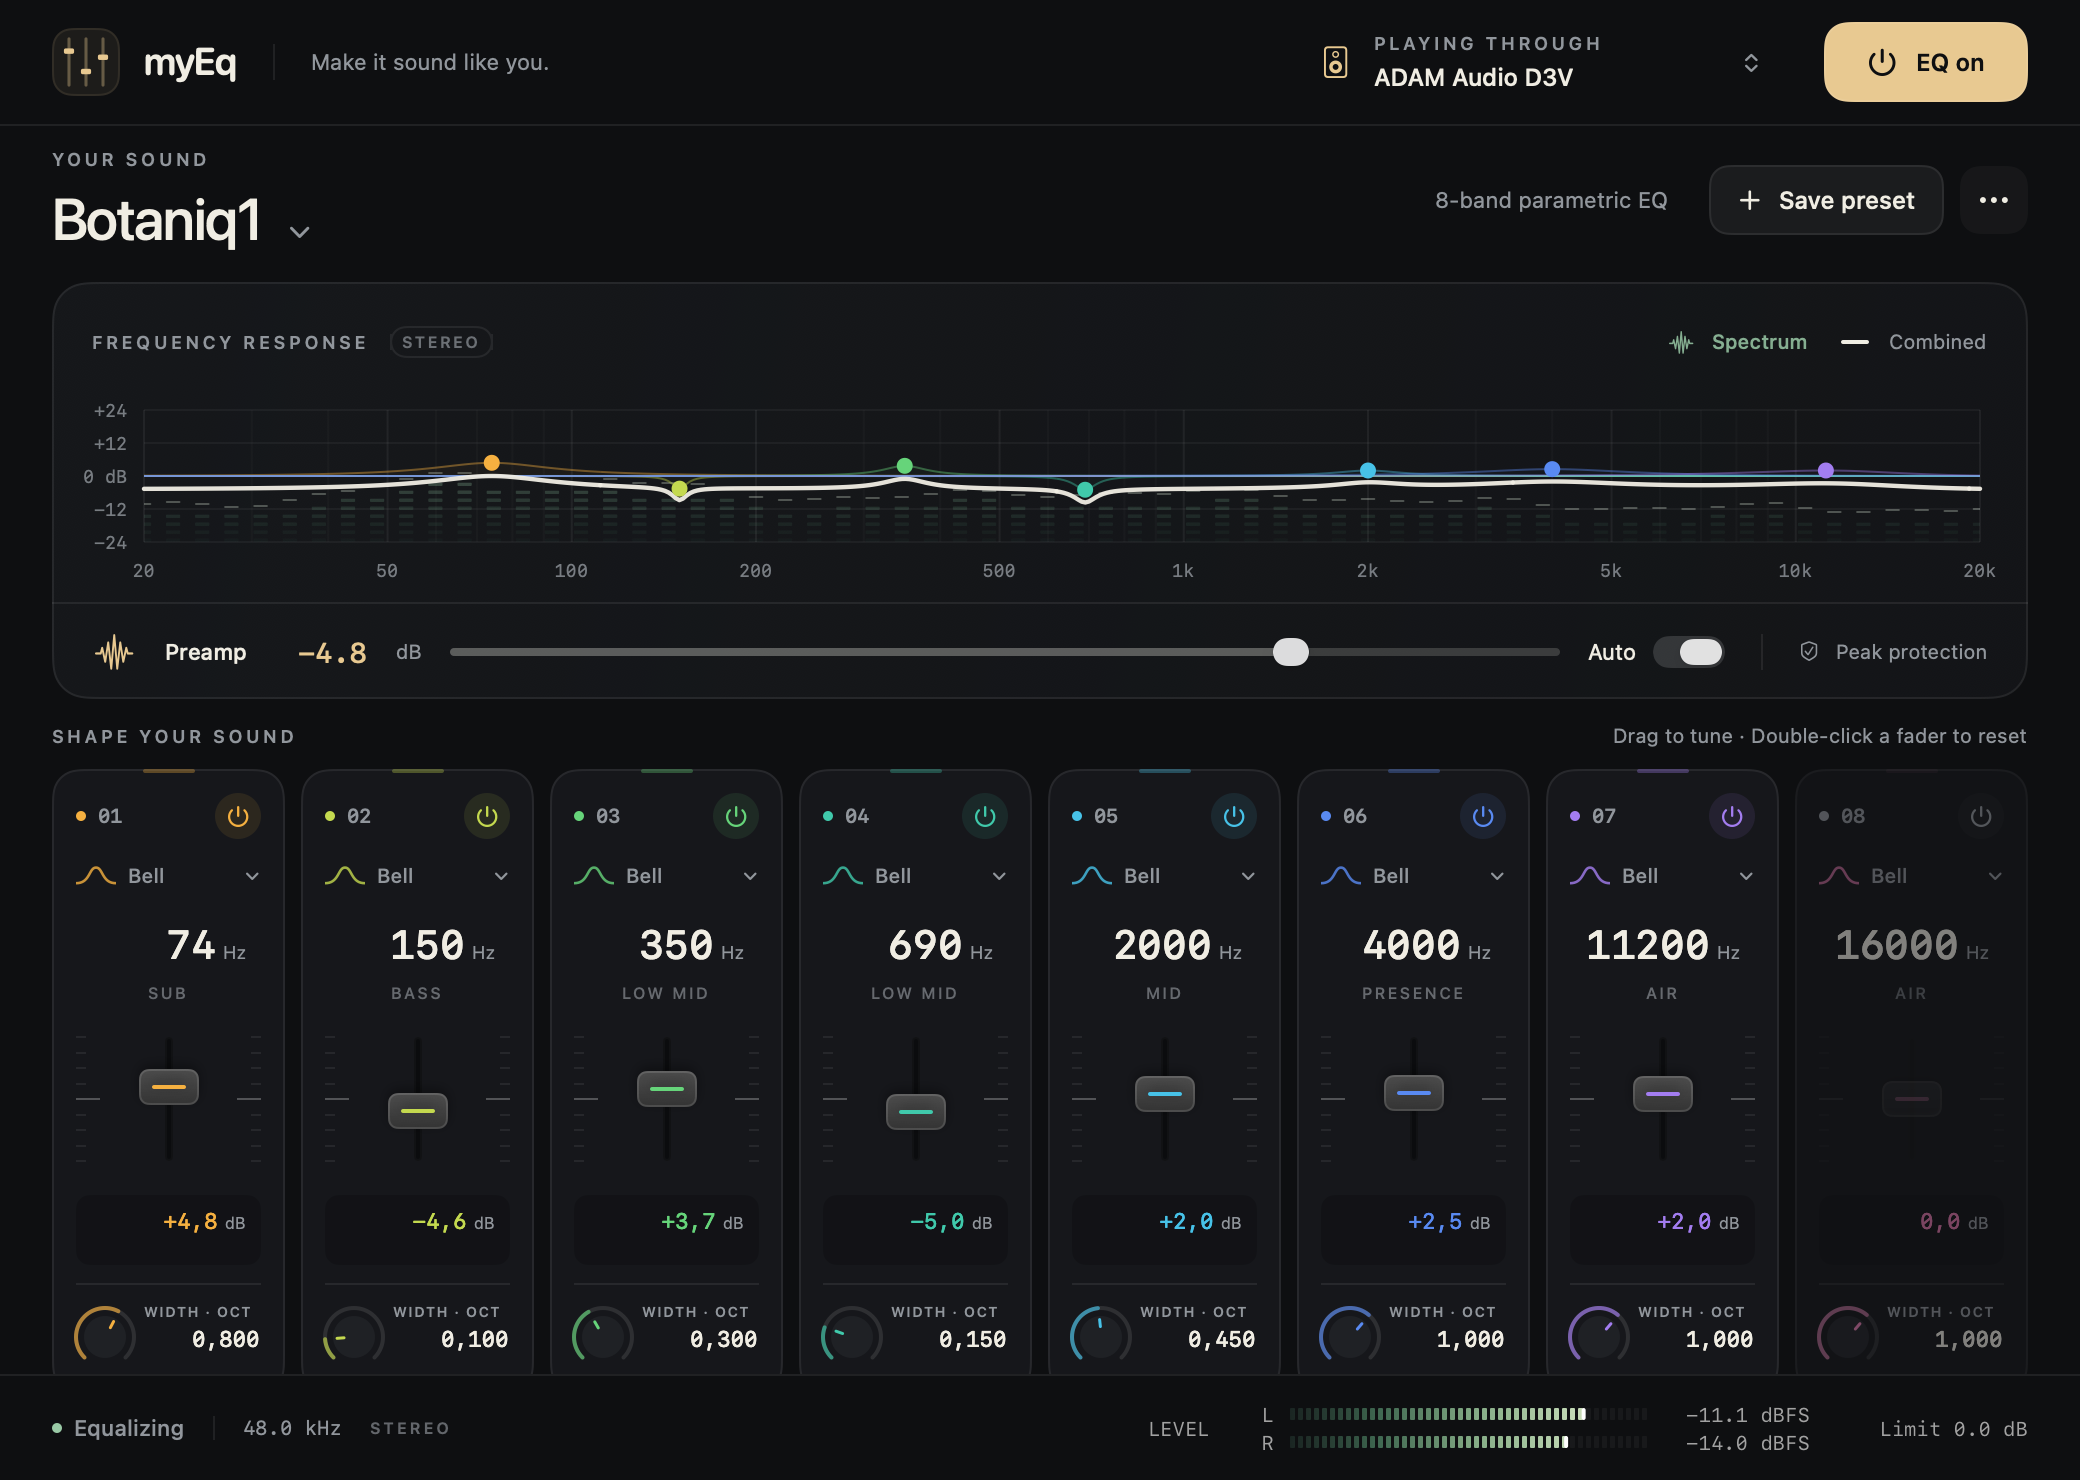
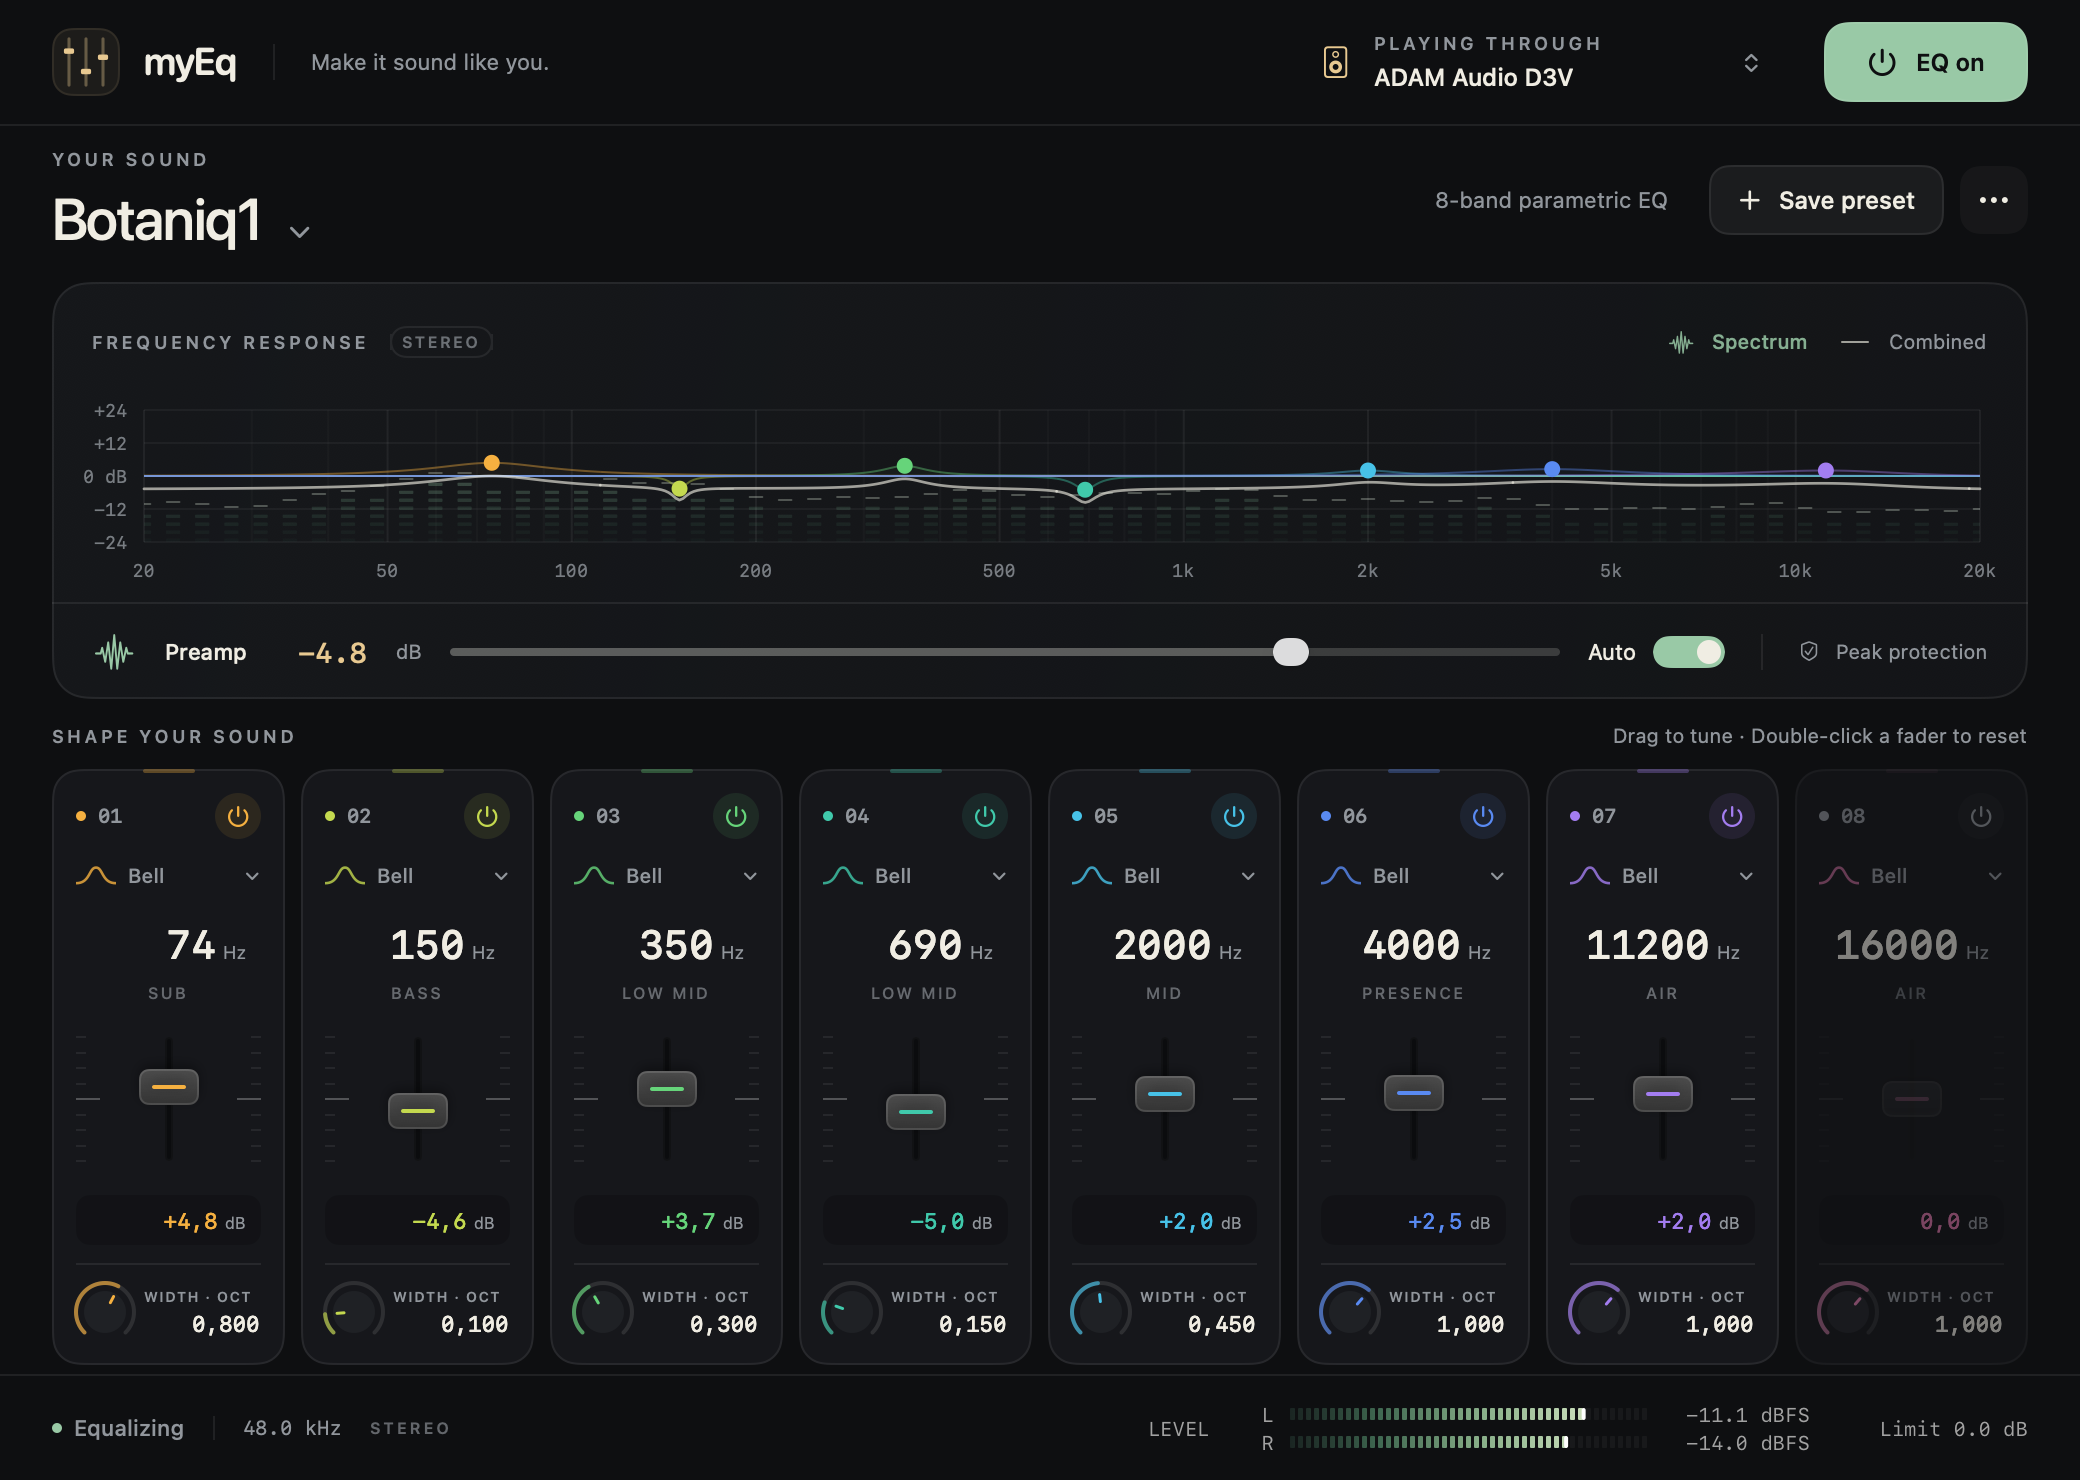
Match active controls to Spectrum green and soften combined curve

diff --git a/Sources/MyEqApp/DesignSystem.swift b/Sources/MyEqApp/DesignSystem.swift
@@ -10,6 +10,8 @@ enum Studio {
   static let secondary = Color(red: 0.57, green: 0.59, blue: 0.61)
   static let accent = Color(red: 0.91, green: 0.79, blue: 0.57)
   static let active = Color(red: 0.60, green: 0.79, blue: 0.65)
+  static let combinedResponse = ink.opacity(0.64)
+  static let combinedResponseWidth: CGFloat = 1.35
   static let line = Color.white.opacity(0.075)
   static let statusIcon: NSImage = {
     let image = NSImage(size: NSSize(width: 20, height: 18), flipped: false) { _ in
@@ -124,7 +126,7 @@ struct PowerControl: View {
       .frame(width: compact ? 40 : 102, height: 40)
       .background(
         RoundedRectangle(cornerRadius: compact ? 13 : 12)
-          .fill(model.saved.enabled ? Studio.accent : Studio.raised)
+          .fill(model.saved.enabled ? Studio.active : Studio.raised)
       )
       .overlay(RoundedRectangle(cornerRadius: compact ? 13 : 12).strokeBorder(.white.opacity(0.07)))
     }
@@ -133,6 +135,34 @@ struct PowerControl: View {
     .accessibilityLabel(model.saved.enabled ? "Bypass equalizer" : "Enable equalizer")
     .accessibilityValue(model.saved.enabled ? "Enabled" : "Bypassed")
     .help(model.saved.enabled ? "Bypass EQ · ⌘E" : "Enable EQ · ⌘E")
+  }
+}
+
+struct StudioSwitchStyle: ToggleStyle {
+  @Environment(\.isEnabled) private var isEnabled
+  @Environment(\.accessibilityReduceMotion) private var reducedMotion
+
+  func makeBody(configuration: Configuration) -> some View {
+    Button {
+      configuration.isOn.toggle()
+    } label: {
+      HStack(spacing: 8) {
+        configuration.label
+        Capsule()
+          .fill(configuration.isOn ? Studio.active : Studio.raised)
+          .frame(width: 36, height: 16)
+          .overlay(alignment: .leading) {
+            Circle().fill(Studio.ink).frame(width: 12, height: 12)
+              .offset(x: configuration.isOn ? 22 : 2)
+          }
+      }.contentShape(Rectangle())
+    }
+    .buttonStyle(.plain)
+    .opacity(isEnabled ? 1 : 0.35)
+    .animation(reducedMotion ? nil : .easeOut(duration: 0.12), value: configuration.isOn)
+    .accessibilityRepresentation {
+      Toggle(isOn: configuration.$isOn) { configuration.label }.toggleStyle(.switch)
+    }
   }
 }
 

diff --git a/Sources/MyEqApp/EqualizerView.swift b/Sources/MyEqApp/EqualizerView.swift
@@ -166,7 +166,8 @@ struct EqualizerView: View {
         .help(
           "Filled bars show output after EQ and peak protection. Spectrum levels use a separate scale from EQ gain."
         )
-        Capsule().fill(Studio.ink).frame(width: 14, height: 2)
+        Capsule().fill(Studio.combinedResponse)
+          .frame(width: 14, height: Studio.combinedResponseWidth)
         Text("Combined").font(.system(size: 10)).foregroundStyle(Studio.secondary)
       }.padding(.horizontal, 20).padding(.top, 18).padding(.bottom, 10)
       ResponseGraph(model: model).frame(height: compact ? 104 : 198)
@@ -185,7 +186,7 @@ struct EqualizerView: View {
   }
   private var preampBar: some View {
     HStack(spacing: 14) {
-      Image(systemName: "waveform.path").foregroundStyle(Studio.accent).font(.system(size: 16))
+      Image(systemName: "waveform.path").foregroundStyle(Studio.active).font(.system(size: 16))
       Text("Preamp").font(.system(size: 11, weight: .medium))
       Text(String(format: "%+.1f", model.effectivePreamp))
         .font(.system(size: 14, weight: .medium, design: .monospaced))
@@ -205,7 +206,7 @@ struct EqualizerView: View {
         isOn: Binding(
           get: { model.saved.current.autoPreamp },
           set: { value in model.edit { $0.autoPreamp = value } })
-      ).toggleStyle(.switch).controlSize(.mini).font(.system(size: 11))
+      ).toggleStyle(StudioSwitchStyle()).font(.system(size: 11))
         .help("Automatically leaves headroom for boosted frequencies")
       Rectangle().fill(Studio.line).frame(width: 1, height: 18).padding(.horizontal, 4)
       Label("Peak protection", systemImage: "checkmark.shield")

diff --git a/Sources/MyEqApp/ResponseGraph.swift b/Sources/MyEqApp/ResponseGraph.swift
@@ -74,8 +74,9 @@ struct ResponseGraph: View {
             lineWidth: index == model.selectedBand ? 1.7 : 1)
         }
         context.stroke(
-          curvePath(model.combined), with: .color(Studio.ink.opacity(0.95)),
-          style: StrokeStyle(lineWidth: 2.2, lineCap: .round, lineJoin: .round))
+          curvePath(model.combined), with: .color(Studio.combinedResponse),
+          style: StrokeStyle(
+            lineWidth: Studio.combinedResponseWidth, lineCap: .round, lineJoin: .round))
         for band in model.saved.current.bands where band.enabled {
           let point = CGPoint(
             x: x(min(band.frequency, frequencyLimit)), y: y(band.type.hasGain ? band.gain : 0))

diff --git a/docs/ARCHITECTURE.md b/docs/ARCHITECTURE.md
@@ -68,7 +68,7 @@ One 30 Hz main-run-loop timer coalesces incoming frames and stale-data fading. W
 
 ## Editor and menu presentation
 
-The interface uses a shared `Studio` palette, native SwiftUI layout, Canvas response/filter shapes, and fixed-size AppKit meter/spectrum layers. `EqualizerView` adapts graph height, fader height, and spacing below 820 points of content height, while preserving exact-value fields and all eight strips. Error messages remain in a scrollable content region; output, power, and the level footer remain fixed. The spectrum's fading timer is visibility gated; the menu has no recurring visual timer.
+The interface uses a shared `Studio` palette, native SwiftUI layout, Canvas response/filter shapes, and fixed-size AppKit meter/spectrum layers. The enabled EQ power control, preamp icon, and Auto switch share `Studio.active`, the sage green used by Spectrum. The editor's combined response curve and legend share a 1.35-point stroke at 64% ink opacity. Auto uses `StudioSwitchStyle` for a consistent green on-state in active and inactive windows, a standard Button action for keyboard activation, and a native Toggle accessibility representation. Thumb transitions respect Reduce Motion. `EqualizerView` adapts graph height, fader height, and spacing below 820 points of content height, while preserving exact-value fields and all eight strips. Error messages remain in a scrollable content region; output, power, and the level footer remain fixed. The spectrum's fading timer is visibility gated; the menu has no recurring visual timer.
 
 `MenuBarExtra` uses a window presentation with output selection, preset controls, a cached 128-point combined response, and an editor shortcut. `AppModel` tracks menu/editor visibility independently. Opening the panel refreshes only its curve if the editor is hidden; changes while both are hidden cancel pending graph work. Opening either surface refreshes it from current settings. Native menus are created on demand through `PopupMenuButton`: a regular SwiftUI button provides the custom label and keyboard/accessibility behavior, and an anchored `NSMenu` provides selection, checkmarks, and disabled actions. Menu item instances retain their action closures for the menu’s lifetime.
 

diff --git a/docs/VERIFICATION.md b/docs/VERIFICATION.md
@@ -651,3 +651,12 @@ The verified package successfully upgraded 0.5.4 on 2026-10-24. Neither myEq nor
 Driver replacement again unloaded the virtual output. A single administrator-authorized Core Audio reload restored it. Device inventory returned slowly, but the completed app diagnostics show **Equalizing** shortly after launch at 48 kHz, with 512-frame physical/virtual buffers and a 1024-frame reserve. No second reload, Mac restart, or helper-registration repair was needed.
 
 Installed IPC checks passed. Fresh silent AudioQueue clients passed at 44.1 kHz (64 callbacks), 48 kHz (70), and 96 kHz (140), preserving the default virtual output. Initial transport diagnostics reported zero underruns and overruns, with one source discontinuity. These short startup/client checks do not establish sustained audible playback or visible-window performance. Release CI was still running during installation verification; the previous 0.5.4 revision's CI had passed.
+
+
+## Sage controls and subtle combined response
+
+The enabled EQ power button, preamp waveform icon, and Auto preamp switch now share `Studio.active`, the sage green used by Spectrum. The shared power control also updates the menu's enabled button. Auto uses a compact SwiftUI switch style because the native switch remained gray in the rendered inactive window despite a tint. It exposes a native Toggle accessibility representation, uses standard Button activation, and disables thumb animation under Reduce Motion.
+
+The editor's combined response curve is reduced from 2.2 points at 95% ink opacity to 1.35 points at 64% opacity. Its legend uses the same shared style. The spectrum data, meter ballistics, and DSP are unchanged.
+
+`bash scripts/render-design.sh` passes the existing focus, selection, spectrum/meter, visibility, and menu checks. Full-size and compact editor fixtures were visually inspected, including the green Auto on-state, and the README screenshot was refreshed. Strict Swift formatting, repository/documentation, and whitespace checks pass. This is a verified source/UI refinement; it has not yet been packaged, pushed, or installed.
